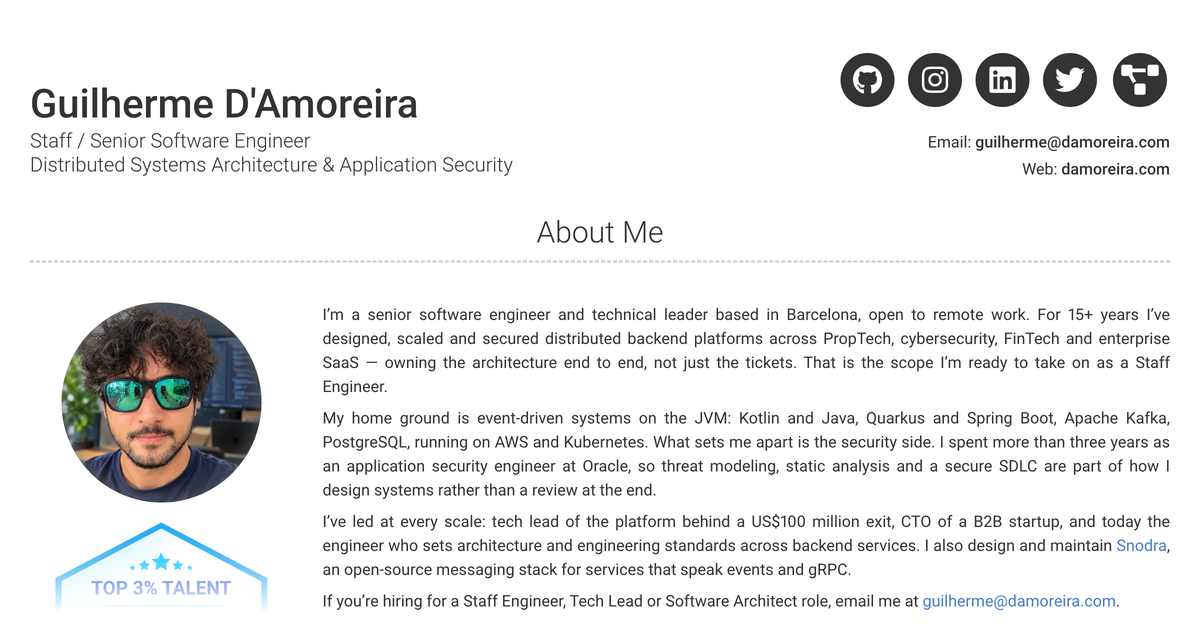
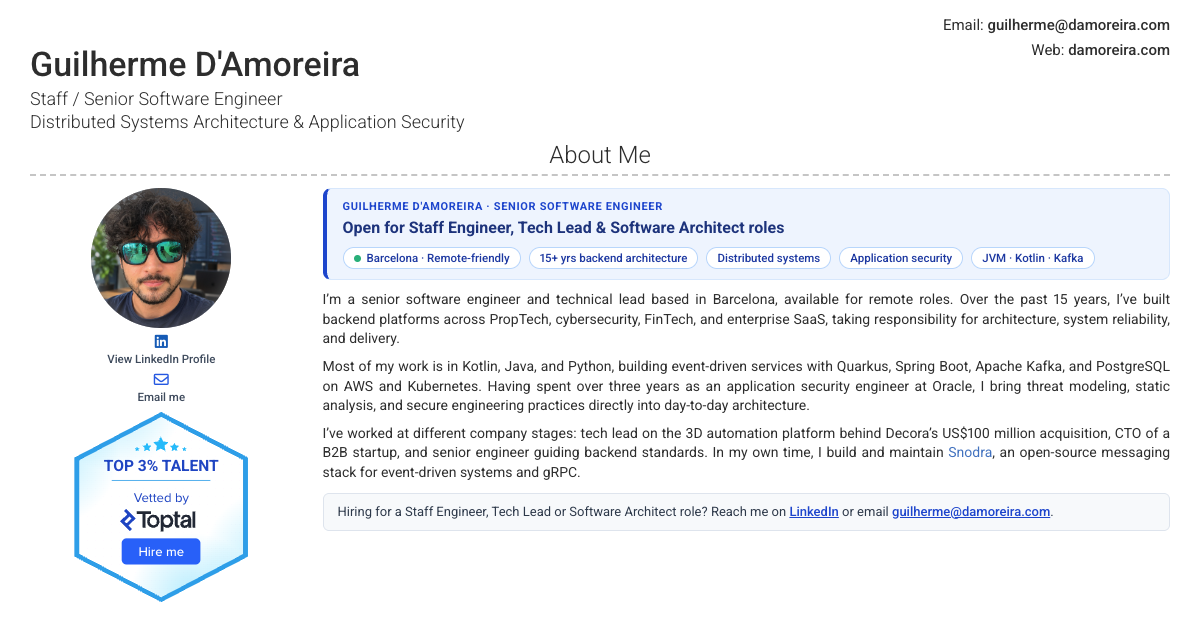
feat: optimize and refresh og-image for expanded About Me section
- Add og-mode CSS styling (reduces top padding/margins, hides social icons)
- Support URL parameter ?og to preview/capture the social card layout
- Re-capture images/og-image.png at 1200x630 with all bio text and badges cleanly fitted without cropping

Changed region(s): [[0.0, 0.0603, 0.9867, 0.9651], [0.6783, 0.0302, 0.9867, 0.181]]

diff --git a/assets/main.scss b/assets/main.scss
@@ -402,6 +402,107 @@
   margin-bottom: 18px;
 }
 
+// -------------------------------------------------------------
+// Open Graph Image Capture Mode (?og or body.og-mode)
+// -------------------------------------------------------------
+body.og-mode {
+  overflow: hidden !important;
+
+  .header-container {
+    margin-top: 14px !important;
+    margin-bottom: 0 !important;
+
+    h1 {
+      font-size: 3.4rem !important;
+      margin-bottom: 2px !important;
+    }
+
+    h2 {
+      font-size: 1.8rem !important;
+      line-height: 1.3 !important;
+    }
+  }
+
+  .header-right {
+    .icons {
+      display: none !important;
+    }
+
+    p {
+      margin-bottom: 2px !important;
+      font-size: 1.5rem !important;
+    }
+  }
+
+  .intro-container {
+    margin-top: 0 !important;
+
+    h3#about-me {
+      font-size: 2.4rem !important;
+      margin-bottom: 12px !important;
+      padding-bottom: 4px !important;
+    }
+  }
+
+  .about-hero-callout {
+    padding: 10px 16px !important;
+    margin-bottom: 10px !important;
+
+    .hero-callout-eyebrow {
+      font-size: 1.1rem !important;
+      margin-bottom: 3px !important;
+    }
+
+    .hero-callout-headline {
+      font-size: 1.6rem !important;
+      margin-bottom: 8px !important;
+    }
+
+    .hero-pill {
+      font-size: 1.15rem !important;
+      padding: 2px 10px !important;
+    }
+  }
+
+  .about-bio-text p {
+    font-size: 1.4rem !important;
+    line-height: 1.4 !important;
+    margin-bottom: 8px !important;
+  }
+
+  .about-cta-box {
+    margin-top: 10px !important;
+    padding: 8px 14px !important;
+    font-size: 1.3rem !important;
+  }
+
+  .profile-img {
+    width: 140px !important;
+    height: 140px !important;
+    margin-bottom: 6px !important;
+  }
+
+  .about-profile-links {
+    margin: 6px 0 !important;
+    gap: 4px !important;
+
+    .about-profile-link {
+      font-size: 1.15rem !important;
+      gap: 2px !important;
+
+      i {
+        font-size: 1.5rem !important;
+      }
+    }
+  }
+
+  #r {
+    margin-top: 6px !important;
+    transform: scale(0.82);
+    transform-origin: top center;
+  }
+}
+
 .get-in-touch-btn {
   display: inline-flex;
   align-items: center;

diff --git a/_includes/header.html b/_includes/header.html
@@ -1,3 +1,8 @@
+<script>
+  if (window.location.search && window.location.search.indexOf('og') !== -1) {
+    document.body.classList.add('og-mode');
+  }
+</script>
 <div class="container header-container">
   <div class="row">
     <div class="col-xs-12 col-sm-6 col-md-6 col-lg-8 header-left">
